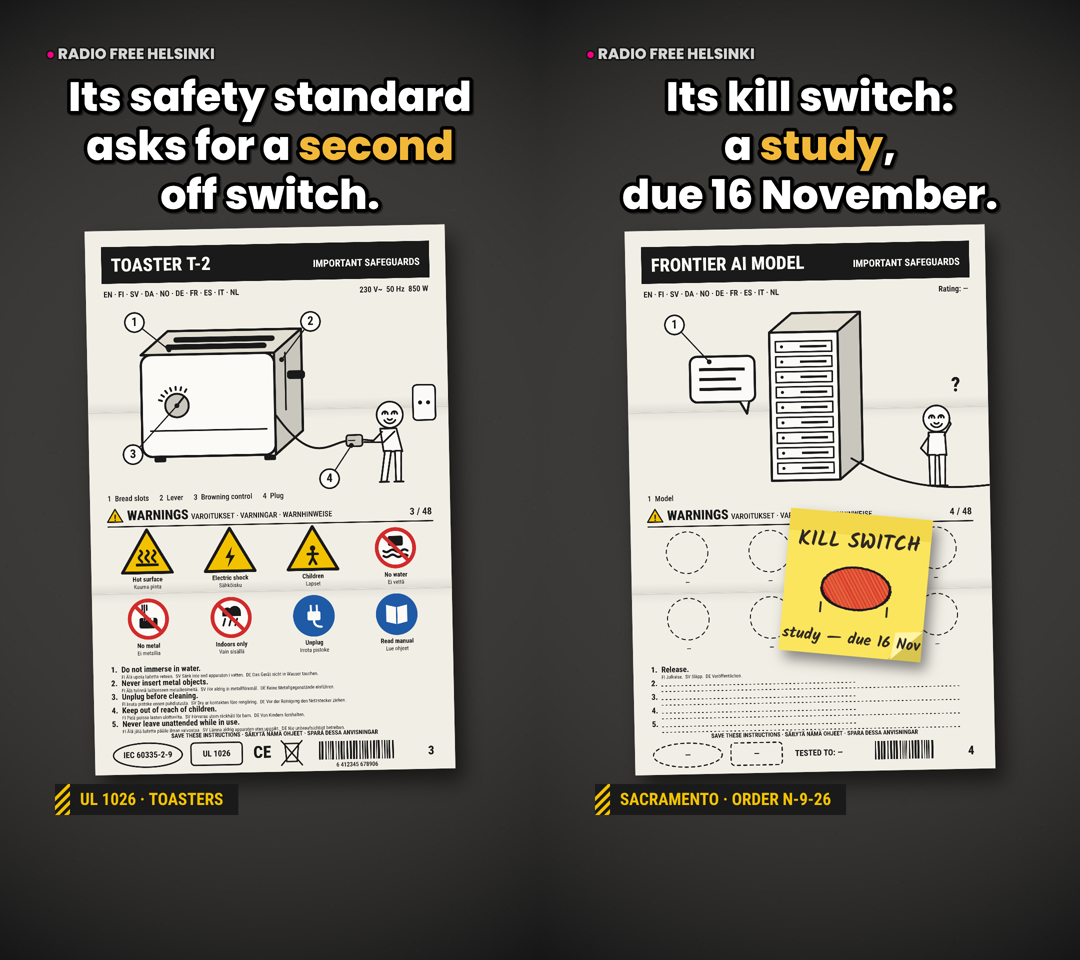
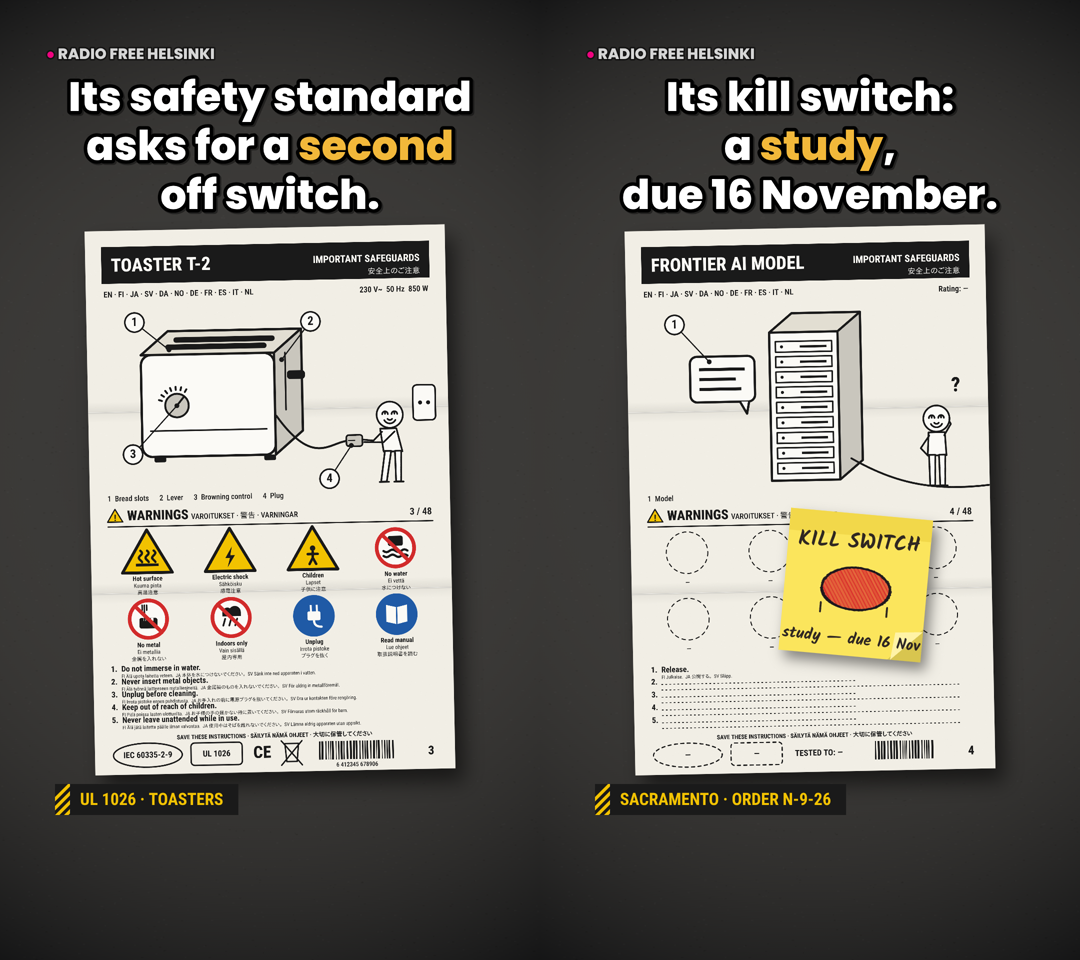
Japanese joins Finnish as the films' second voice
Kill Switch: 安全上のご注意, JA in the language codes, 警告, a Japanese caption under
every pictogram and a JA line in every instruction. Welcome Home: the shelf
jars are labelled in Finnish and Japanese. The rule is in PLANNING.md, and
Japanese is set in IPA P Gothic.

Claude-Session: https://claude.ai/code/session_011b61vCGymuKHRP9nugFoKh

diff --git a/radiofree/studio/art-motion/clay/kill-switch/artwork.js b/radiofree/studio/art-motion/clay/kill-switch/artwork.js
@@ -4,7 +4,7 @@
 import { INK as I, AW, AH } from './print.js';
 
 const TAU = Math.PI * 2, LW = 6;
-const F = (wt, px) => `${wt} ${px}px "RobotoCondensed"`;
+const F = (wt, px) => `${wt} ${px}px "RobotoCondensed", "IPAPGothic"`;   // Japanese falls through to IPA P Gothic
 const ln = (g, w = LW, col = I.K) => { g.lineWidth = w; g.lineJoin = 'round'; g.lineCap = 'round'; g.strokeStyle = col; };
 const poly = (g, pts, close = true) => { g.beginPath(); pts.forEach(([x, y], i) => (i ? g.lineTo(x, y) : g.moveTo(x, y))); if (close) g.closePath(); };
 const text = (g, s, x, y, font, { col = I.K, align = 'left', base = 'alphabetic' } = {}) => { g.font = font; g.fillStyle = col; g.textAlign = align; g.textBaseline = base; g.fillText(s, x, y); };
@@ -112,13 +112,14 @@ function callout(g, n, x, y, tx, ty) {
 function header(g, left) {
   g.fillStyle = I.K; g.fillRect(40, 40, AW - 80, 92);
   text(g, left, 64, 102, F(800, 46), { col: I.W });
-  text(g, 'IMPORTANT SAFEGUARDS', AW - 64, 100, F(700, 25), { col: I.W, align: 'right' });
-  text(g, 'EN · FI · SV · DA · NO · DE · FR · ES · IT · NL', 44, 166, F(600, 20));
+  text(g, 'IMPORTANT SAFEGUARDS', AW - 64, 90, F(700, 25), { col: I.W, align: 'right' });
+  text(g, '安全上のご注意', AW - 64, 120, F(400, 19), { col: I.W, align: 'right' });   // a Japanese manual's own heading
+  text(g, 'EN · FI · JA · SV · DA · NO · DE · FR · ES · IT · NL', 44, 166, F(600, 20));
 }
 function sectionHead(g, y, right) {
   // the triangle-with-! in the heading, then the heading in three languages
   g.save(); g.translate(62, y - 11); poly(g, [[0, -17], [19, 15], [-19, 15]]); g.fillStyle = I.Y; g.fill(); ln(g, 3); g.stroke(); text(g, '!', 0, 12, F(800, 22), { align: 'center' }); g.restore();
-  text(g, 'WARNINGS', 92, y, F(800, 34)); text(g, 'VAROITUKSET · VARNINGAR · WARNHINWEISE', 252, y, F(500, 19));
+  text(g, 'WARNINGS', 92, y, F(800, 34)); text(g, 'VAROITUKSET · 警告 · VARNINGAR', 252, y, F(500, 19));
   text(g, right, AW - 46, y, F(600, 24), { align: 'right' });
   ln(g, 3); g.beginPath(); g.moveTo(44, y + 16); g.lineTo(AW - 44, y + 16); g.stroke();
 }
@@ -127,15 +128,15 @@ function barcode(g, x, y, w, h, seed) { let bx = x, s = seed; g.fillStyle = I.K;
 
 // ------------------------------------------------------------------ the toaster side
 const LINES = [
-  ['Do not immerse in water.', 'FI Älä upota laitetta veteen.  SV Sänk inte ned apparaten i vatten.  DE Das Gerät nicht in Wasser tauchen.'],
-  ['Never insert metal objects.', 'FI Älä työnnä laitteeseen metalliesineitä.  SV För aldrig in metallföremål.  DE Keine Metallgegenstände einführen.'],
-  ['Unplug before cleaning.', 'FI Irrota pistoke ennen puhdistusta.  SV Dra ur kontakten före rengöring.  DE Vor der Reinigung den Netzstecker ziehen.'],
-  ['Keep out of reach of children.', 'FI Pidä poissa lasten ulottuvilta.  SV Förvaras utom räckhåll för barn.  DE Von Kindern fernhalten.'],
-  ['Never leave unattended while in use.', 'FI Älä jätä laitetta päälle ilman valvontaa.  SV Lämna aldrig apparaten utan uppsikt.  DE Nie unbeaufsichtigt betreiben.'],
+  ['Do not immerse in water.', 'FI Älä upota laitetta veteen.  JA 本体を水につけないでください。  SV Sänk inte ned apparaten i vatten.'],
+  ['Never insert metal objects.', 'FI Älä työnnä laitteeseen metalliesineitä.  JA 金属製のものを入れないでください。  SV För aldrig in metallföremål.'],
+  ['Unplug before cleaning.', 'FI Irrota pistoke ennen puhdistusta.  JA お手入れの前に電源プラグを抜いてください。  SV Dra ur kontakten före rengöring.'],
+  ['Keep out of reach of children.', 'FI Pidä poissa lasten ulottuvilta.  JA お子様の手の届かない所に置いてください。  SV Förvaras utom räckhåll för barn.'],
+  ['Never leave unattended while in use.', 'FI Älä jätä laitetta päälle ilman valvontaa.  JA 使用中はそばを離れないでください。  SV Lämna aldrig apparaten utan uppsikt.'],
 ];
 const PICTS = [
-  [triangle, 'heat', 'Hot surface', 'Kuuma pinta'], [triangle, 'shock', 'Electric shock', 'Sähköisku'], [triangle, 'child', 'Children', 'Lapset'], [forbid, 'water', 'No water', 'Ei vettä'],
-  [forbid, 'fork', 'No metal', 'Ei metallia'], [forbid, 'rain', 'Indoors only', 'Vain sisällä'], [must, 'plug', 'Unplug', 'Irrota pistoke'], [must, 'book', 'Read manual', 'Lue ohjeet'],
+  [triangle, 'heat', 'Hot surface', 'Kuuma pinta', '高温注意'], [triangle, 'shock', 'Electric shock', 'Sähköisku', '感電注意'], [triangle, 'child', 'Children', 'Lapset', '子供に注意'], [forbid, 'water', 'No water', 'Ei vettä', '水につけない'],
+  [forbid, 'fork', 'No metal', 'Ei metallia', '金属を入れない'], [forbid, 'rain', 'Indoors only', 'Vain sisällä', '屋内専用'], [must, 'plug', 'Unplug', 'Irrota pistoke', 'プラグを抜く'], [must, 'book', 'Read manual', 'Lue ohjeet', '取扱説明書を読む'],
 ];
 export function front(g) {
   header(g, 'TOASTER T-2');
@@ -150,8 +151,8 @@ export function front(g) {
   callout(g, 1, 120, 230, 205, 300); callout(g, 2, 560, 236, 486, 330); callout(g, 3, 110, 560, 222, 440); callout(g, 4, 600, 630, 656, 548);
   text(g, '1  Bread slots      2  Lever      3  Browning control      4  Plug', 44, 676, F(500, 19));
   sectionHead(g, 724, '3 / 48');
-  PICTS.forEach(([shape, sym, en, fi], i) => { const [x, y] = CELL(i); shape(g, x, y, 104, SYM[sym]); text(g, en, x, y + 72, F(700, 16), { align: 'center' }); text(g, fi, x, y + 90, F(400, 14), { align: 'center' }); });
-  LINES.forEach(([en, tr], i) => { const y = 1104 + i * 34; text(g, `${i + 1}.`, 44, y, F(800, 20)); text(g, en, 70, y, F(700, 20)); text(g, tr, 70, y + 16, F(400, 12)); });
+  PICTS.forEach(([shape, sym, en, fi, ja], i) => { const [x, y] = CELL(i); shape(g, x, y, 104, SYM[sym]); text(g, en, x, y + 70, F(700, 16), { align: 'center' }); text(g, fi, x, y + 87, F(400, 14), { align: 'center' }); text(g, ja, x, y + 104, F(400, 13), { align: 'center' }); });
+  LINES.forEach(([en, tr], i) => { const y = 1102 + i * 32; text(g, `${i + 1}.`, 44, y, F(800, 20)); text(g, en, 70, y, F(700, 20)); text(g, tr, 70, y + 16, F(400, 12)); });
   // the footer: what it was tested to, the bin, the barcode, the instruction to keep all of this
   ln(g, 3.5); g.beginPath(); g.ellipse(132, 1312, 86, 30, 0, 0, TAU); g.stroke(); text(g, 'IEC 60335-2-9', 132, 1313, F(700, 21), { align: 'center', base: 'middle' });
   g.beginPath(); g.roundRect(240, 1284, 128, 56, 9); g.stroke(); text(g, 'UL 1026', 304, 1313, F(700, 21), { align: 'center', base: 'middle' });
@@ -159,7 +160,7 @@ export function front(g) {
   g.save(); g.translate(492, 1312); ln(g, 3.5); poly(g, [[-17, -22], [17, -22], [13, 23], [-13, 23]]); g.stroke(); g.beginPath(); g.moveTo(-26, -29); g.lineTo(26, 32); g.moveTo(26, -29); g.lineTo(-26, 32); g.stroke(); g.restore();
   barcode(g, 560, 1286, 190, 46, 11); text(g, '6 412345 678906', 655, 1350, F(500, 15), { align: 'center' });
   text(g, '3', AW - 52, 1324, F(800, 30), { align: 'right' });
-  text(g, 'SAVE THESE INSTRUCTIONS · SÄILYTÄ NÄMÄ OHJEET · SPARA DESSA ANVISNINGAR', AW / 2, 1270, F(700, 15), { align: 'center' });
+  text(g, 'SAVE THESE INSTRUCTIONS · SÄILYTÄ NÄMÄ OHJEET · 大切に保管してください', AW / 2, 1274, F(700, 15), { align: 'center' });
 }
 
 // ------------------------------------------------------------------ the frontier model side: the same page, empty
@@ -175,9 +176,9 @@ export function back(g) {
   for (let i = 0; i < 8; i++) { const [x, y] = CELL(i); g.beginPath(); g.arc(x, y, 52, 0, TAU); g.stroke(); }
   g.setLineDash([]);
   for (let i = 0; i < 8; i++) { const [x, y] = CELL(i); text(g, '—', x, y + 80, F(700, 17), { align: 'center' }); }
-  text(g, '1.', 44, 1104, F(800, 20)); text(g, 'Release.', 70, 1104, F(700, 20)); text(g, 'FI Julkaise.  SV Släpp.  DE Veröffentlichen.', 70, 1120, F(400, 12));
+  text(g, '1.', 44, 1104, F(800, 20)); text(g, 'Release.', 70, 1104, F(700, 20)); text(g, 'FI Julkaise.  JA 公開する。  SV Släpp.', 70, 1120, F(400, 12));
   g.setLineDash([3, 7]); ln(g, 2);
-  for (let i = 1; i < 5; i++) { const y = 1104 + i * 34; text(g, `${i + 1}.`, 44, y, F(800, 20)); g.beginPath(); g.moveTo(70, y); g.lineTo(560, y); g.stroke(); g.beginPath(); g.moveTo(70, y + 14); g.lineTo(820, y + 14); g.stroke(); }
+  for (let i = 1; i < 5; i++) { const y = 1102 + i * 32; text(g, `${i + 1}.`, 44, y, F(800, 20)); g.beginPath(); g.moveTo(70, y); g.lineTo(560, y); g.stroke(); g.beginPath(); g.moveTo(70, y + 14); g.lineTo(820, y + 14); g.stroke(); }
   g.setLineDash([8, 8]); ln(g, 3);
   g.beginPath(); g.ellipse(132, 1312, 86, 30, 0, 0, TAU); g.stroke(); g.beginPath(); g.roundRect(240, 1284, 128, 56, 9); g.stroke();
   g.setLineDash([]);
@@ -185,5 +186,5 @@ export function back(g) {
   text(g, 'TESTED TO: —', 400, 1314, F(700, 21), { base: 'middle' });
   barcode(g, 600, 1286, 150, 46, 29);
   text(g, '4', AW - 52, 1324, F(800, 30), { align: 'right' });
-  text(g, 'SAVE THESE INSTRUCTIONS · SÄILYTÄ NÄMÄ OHJEET · SPARA DESSA ANVISNINGAR', AW / 2, 1270, F(700, 15), { align: 'center' });
+  text(g, 'SAVE THESE INSTRUCTIONS · SÄILYTÄ NÄMÄ OHJEET · 大切に保管してください', AW / 2, 1274, F(700, 15), { align: 'center' });
 }

diff --git a/radiofree/studio/art-motion/clay/welcome/film-wh2.js b/radiofree/studio/art-motion/clay/welcome/film-wh2.js
@@ -19,6 +19,7 @@ import { Toko } from '../clay-roadster/lib/toko.js';
 const W = 1080, H = 1920, TAU = Math.PI * 2;
 const FONT_DIR = '../am/' + encodeURIComponent('代码工程') + '/lib/fonts/';
 { const f = new FontFace('Inter', `url(${FONT_DIR}Inter-var.woff)`, { weight: '100 900' }); document.fonts.add(await f.load()); }
+{ const f = new FontFace('IPAPGothic', 'url(../fonts/ipagp.ttf)'); document.fonts.add(await f.load()); }   // Japanese, a gothic
 const renderer = new THREE.WebGLRenderer({ antialias: false, preserveDrawingBuffer: true });
 renderer.setPixelRatio(1); renderer.setSize(W, H, false);
 renderer.shadowMap.enabled = true; renderer.shadowMap.type = THREE.PCFSoftShadowMap;
@@ -105,7 +106,12 @@ mesh(new RoundedBoxGeometry(24, 0.3, 11, 2, 0.12), M.cooktop, { pos: [48, CTOP +
 // open shelves either side of the window with jars, cups, a plant
 for (const [x0, x1] of [[-62, -20], [40, 68]]) mesh(lumpy(new RoundedBoxGeometry(x1 - x0, 1.4, 7, 2, 0.4), 0.02, 0.5, 600 + x0), M.oak, { pos: [(x0 + x1) / 2, 60, BACK + 3.6] });
 { const r = rng(23);
-  for (const x of [-58, -51, -44]) mesh(lumpy(new THREE.CylinderGeometry(2.4, 2.4, 6 + r() * 3, 20), 0.02, 1, 610 + x), M.jar, { pos: [x, 64.5, BACK + 3.6] });
+  const label = (fi, ja) => { const c = canvas(256, 200), g = c.getContext('2d'); g.fillStyle = '#f7f2e6'; g.fillRect(0, 0, 256, 200); g.strokeStyle = '#2a2523'; g.lineWidth = 6; g.strokeRect(10, 10, 236, 180);
+    g.fillStyle = '#2a2523'; g.textAlign = 'center'; g.font = '700 54px Inter'; g.fillText(fi, 128, 88); g.font = '64px IPAPGothic'; g.fillText(ja, 128, 166); const t = tex(c); return new THREE.MeshStandardMaterial({ map: t, roughness: 0.85 }); };
+  for (const [x, fi, ja] of [[-58, 'SUOLA', '塩'], [-51, 'SOKERI', '砂糖'], [-44, 'KAHVI', '珈琲']]) {
+    const h = 6 + r() * 3; mesh(lumpy(new THREE.CylinderGeometry(2.4, 2.4, h, 20), 0.02, 1, 610 + x), M.jar, { pos: [x, 61.4 + h / 2, BACK + 3.6] });
+    mesh(new THREE.CylinderGeometry(2.46, 2.46, 2.9, 24, 1, true, -0.8, 1.6), label(fi, ja), { pos: [x, 61.4 + h * 0.45, BACK + 3.6], cast: false });
+  }
   for (const x of [-34, -27]) mesh(lumpy(lathe([[0, 0], [2.1, 0], [2.4, 2.8], [2.5, 3.4], [0, 3.4]], 24), 0.02, 1, 620 + x), M.cup, { pos: [x, 60.7, BACK + 3.6] });
   for (const x of [46, 54]) mesh(lumpy(ball(3, 1, 0.5, 1, 20), 0.02, 1, 630 + x), M.cup, { pos: [x, 62, BACK + 3.6] });
 }

diff --git a/radiofree/studio/art-motion/clay/kill-switch/flat.js b/radiofree/studio/art-motion/clay/kill-switch/flat.js
@@ -10,6 +10,8 @@ const FONT_DIR = '../am/' + encodeURIComponent('代码工程') + '/lib/fonts/';
 for (const [fam, file, desc] of [['RobotoCondensed', 'RobotoCondensed-var.woff', { weight: '100 900' }], ['Kalam', 'Kalam-700.woff', {}], ['Poppins-800', 'Poppins-800.woff', {}]]) {
   const f = new FontFace(fam, `url(${FONT_DIR}${file})`, desc); document.fonts.add(await f.load());
 }
+// Japanese: IPA P Gothic (fonts-ipafont-gothic, IPA Font License) — a gothic, as Japanese manuals are set
+{ const f = new FontFace('IPAPGothic', 'url(../fonts/ipagp.ttf)'); document.fonts.add(await f.load()); }
 const mk = (w, h) => { const c = document.createElement('canvas'); c.width = w; c.height = h; return c; };
 function rng(seed) { let s = seed >>> 0; return () => { s = (s + 0x6D2B79F5) >>> 0; let t = s; t = Math.imul(t ^ (t >>> 15), t | 1); t ^= t + Math.imul(t ^ (t >>> 7), t | 61); return ((t ^ (t >>> 14)) >>> 0) / 4294967296; }; }
 

diff --git a/radiofree/studio/art-motion/PLANNING.md b/radiofree/studio/art-motion/PLANNING.md
@@ -15,6 +15,7 @@ films taught, turned into the questions a pitch has to answer before anything is
 | "the bottom infos … are blocked on Instagram by the bottom texts and channel info" | A Handful of People | **Keep the bottom clear.** Instagram's caption, channel line and buttons cover the bottom of a Reel: no where/what tag or other text below y = 1630 (`RFP.SAFE_B`), and nothing in the right-hand 160 px below the middle of the frame. |
 | "funny … needs clarity or more jokes" | Unexpectedly, a Deer | **Set up the stake early** (the $20/MO tag in shot 1), so every later gag is paid for. |
 | "it had small glitches … I like those" | Biodiversity Fund | Test very subtle glitches later; never on a caption. |
+| "Add japanese text to the roster. If you use Finnish, sometimes consider japanese or both as additional theme elements" | Kill Switch | **Finnish and Japanese are the house's second voices** (the station speaks fi/en/ja). Wherever Finnish appears as texture (a label, a manual line, a sign, a jar), consider Japanese with it or instead of it. Set Japanese in a **gothic** (IPA P Gothic, `fonts-ipafont-gothic`), never the bundled serif; the bundled Noto Sans SC has no kana. Use the real conventions: a Japanese manual opens with 安全上のご注意. |
 
 And from the work itself:
 
